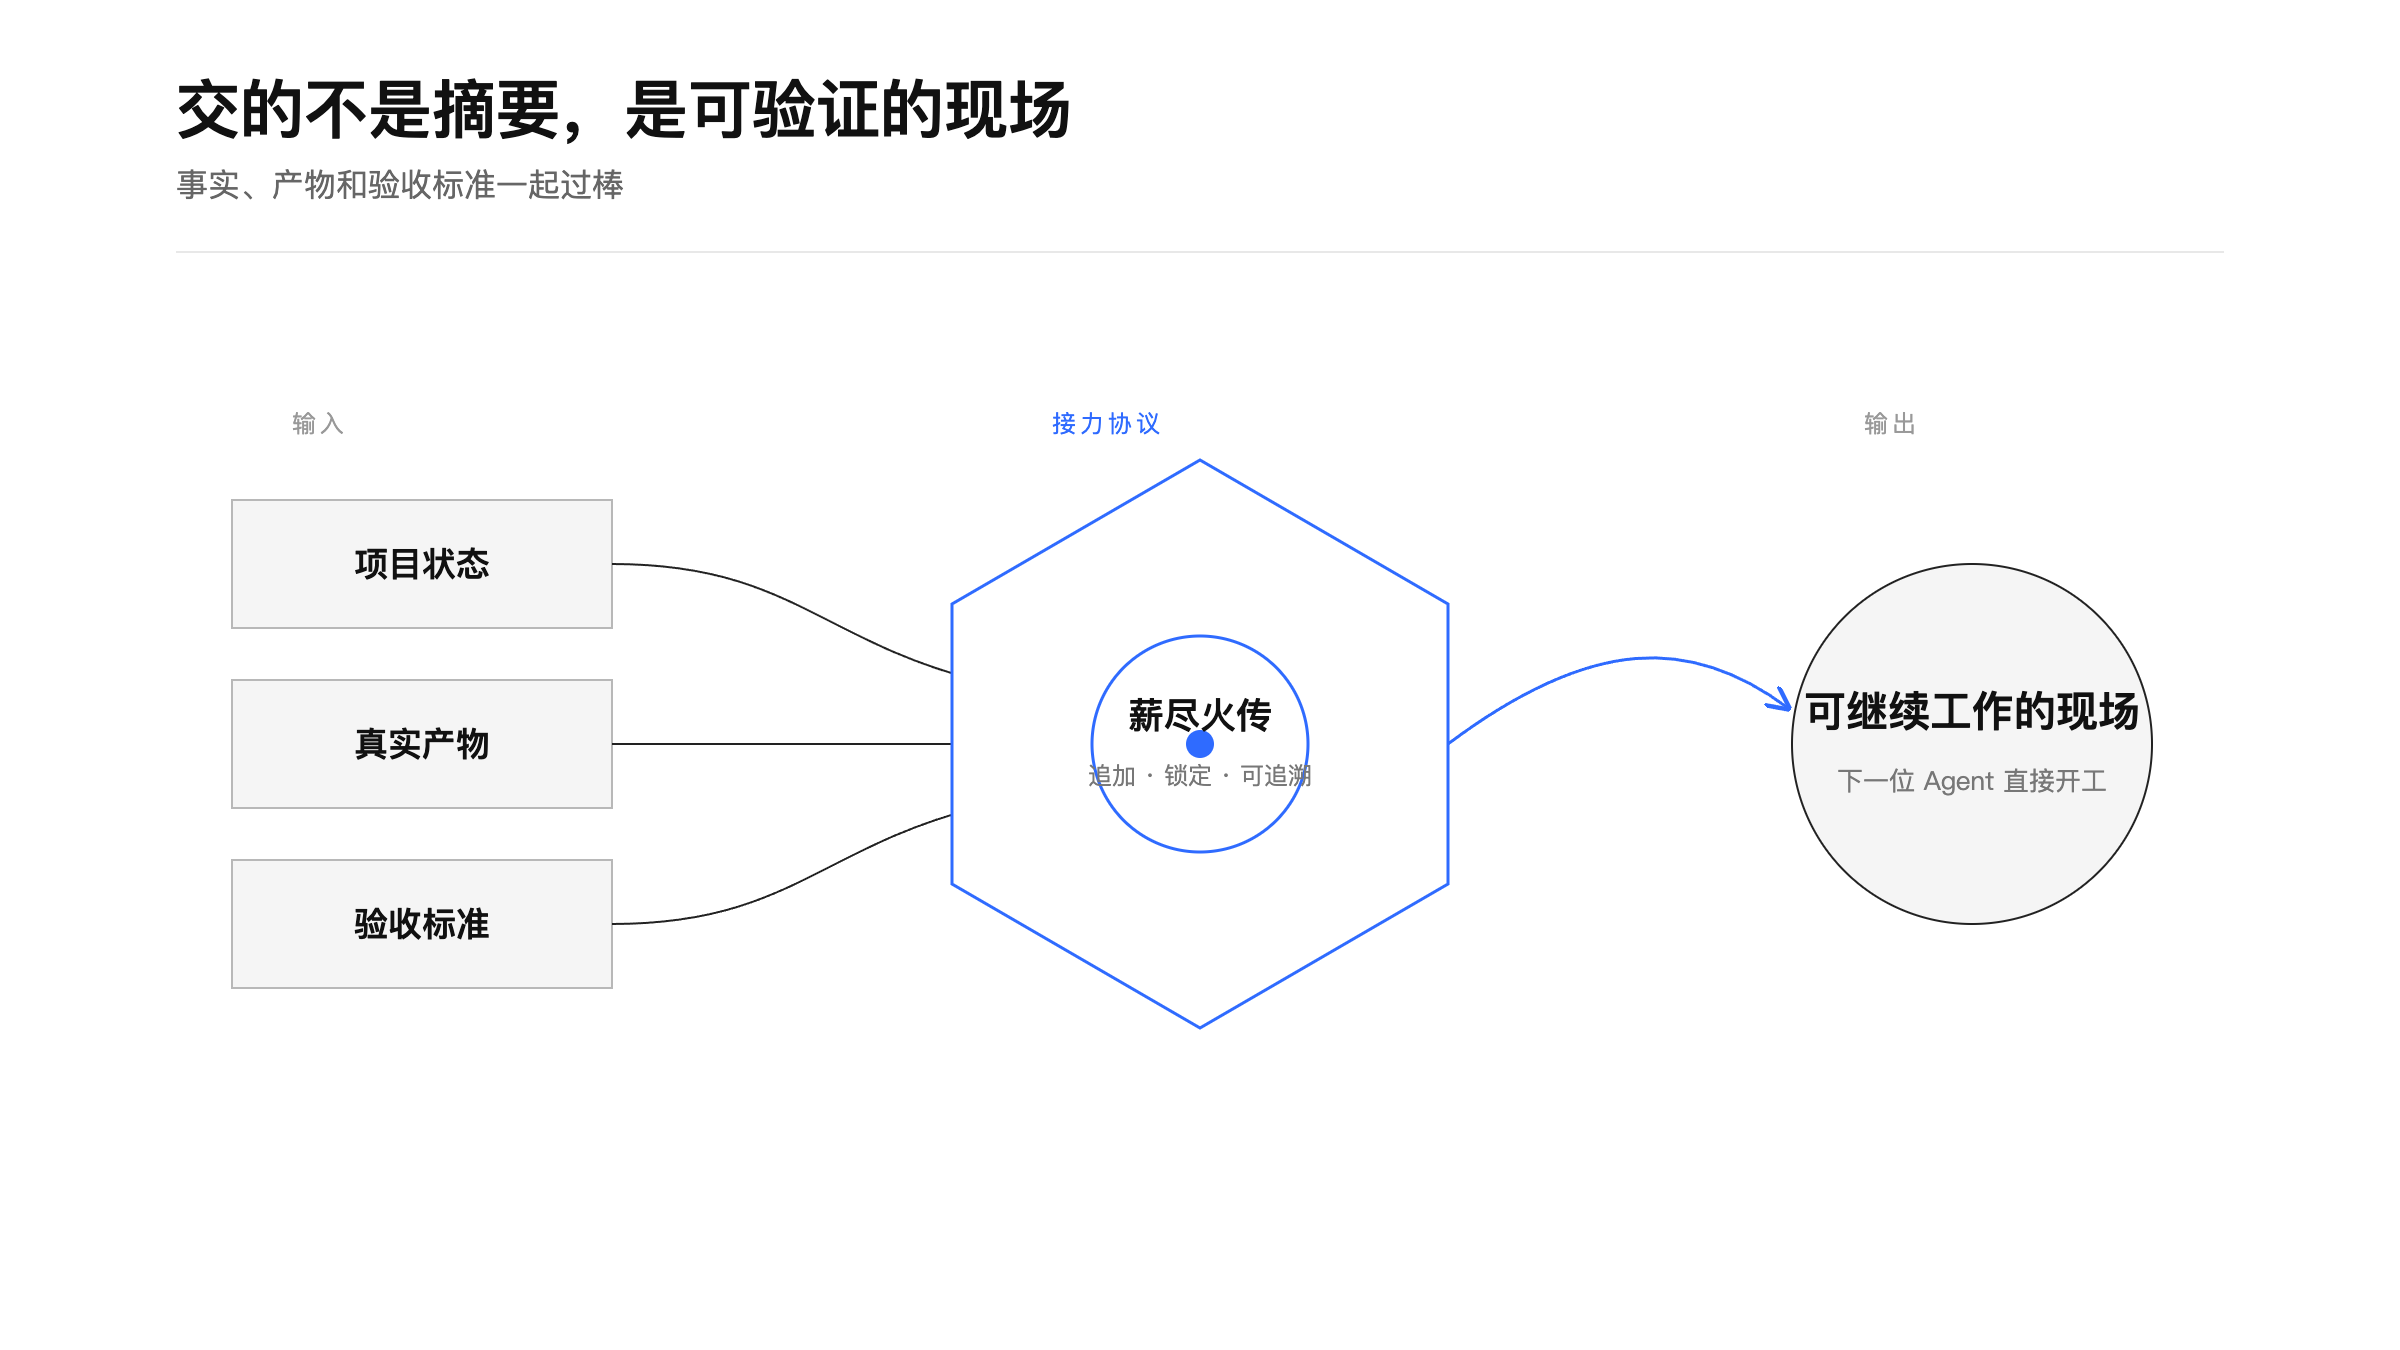
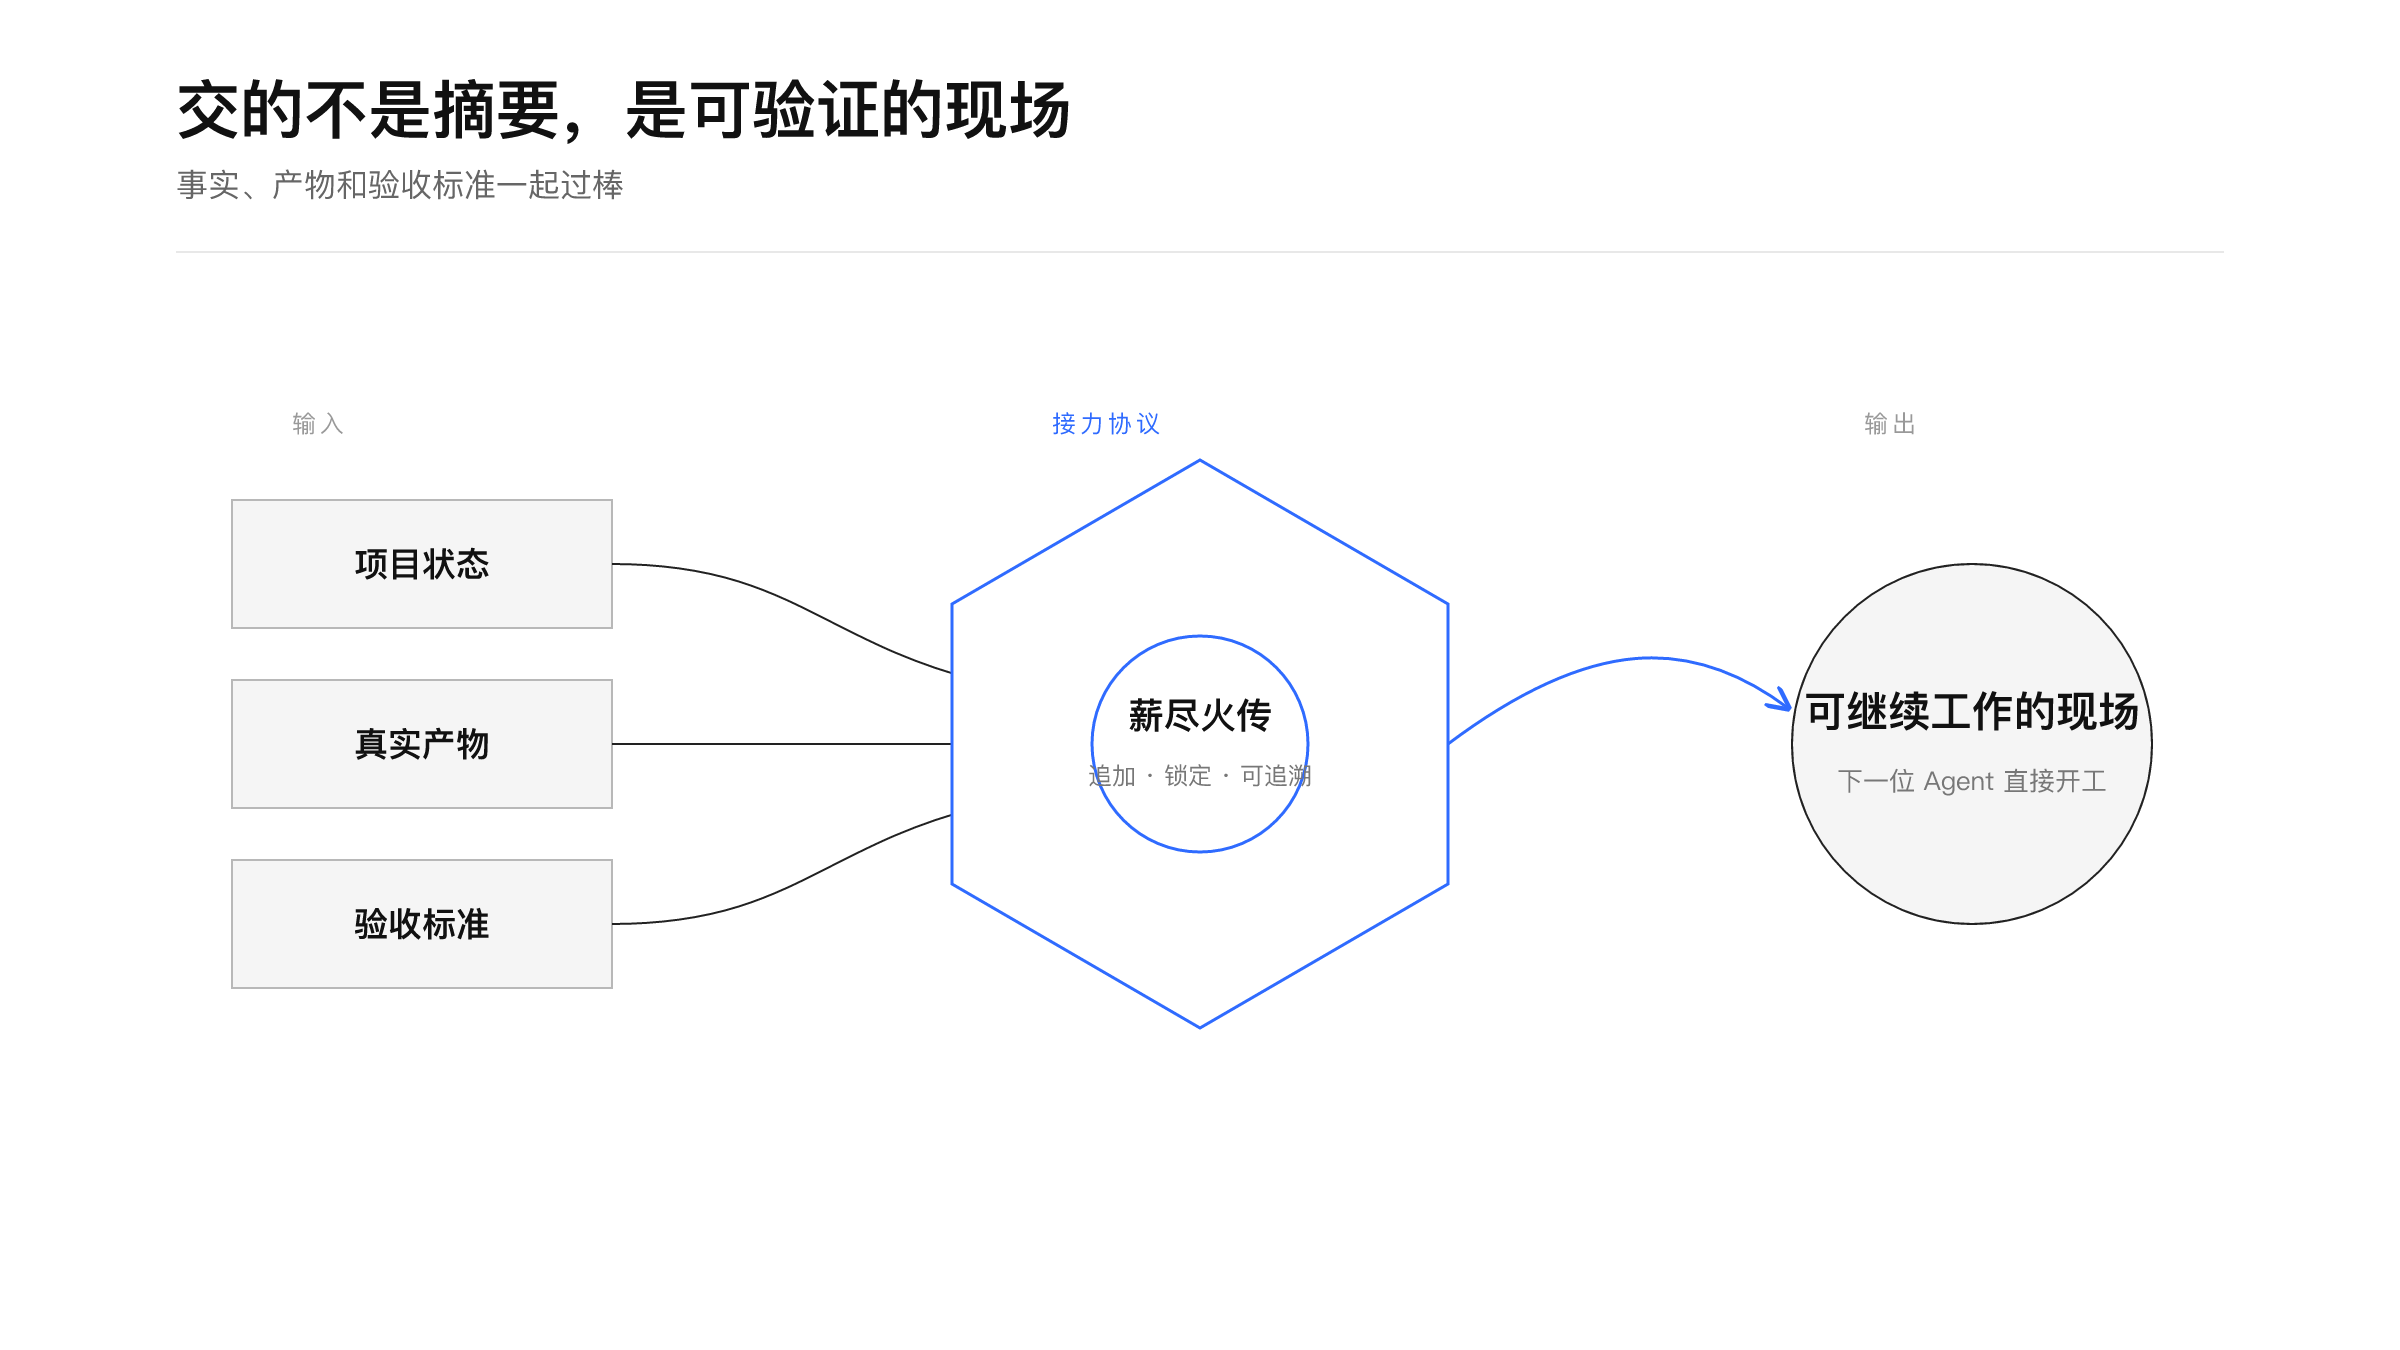
Polish boards: remove redundant center dot overlapping node labels
The blue ring already marks the focal node; the extra center dot
collided with the label text and read as clutter. Cache-bust README refs.

diff --git a/README.md b/README.md
@@ -100,7 +100,7 @@ offer → accept → heartbeat → complete → verify
 
 ## 交的是可验证现场
 
-<p align="center"><img src="assets/boards/03-trust.png" alt="可验证的工作现场" width="900" /></p>
+<p align="center"><img src="assets/boards/03-trust.png?v=2" alt="可验证的工作现场" width="900" /></p>
 
 ### 交棒时
 
